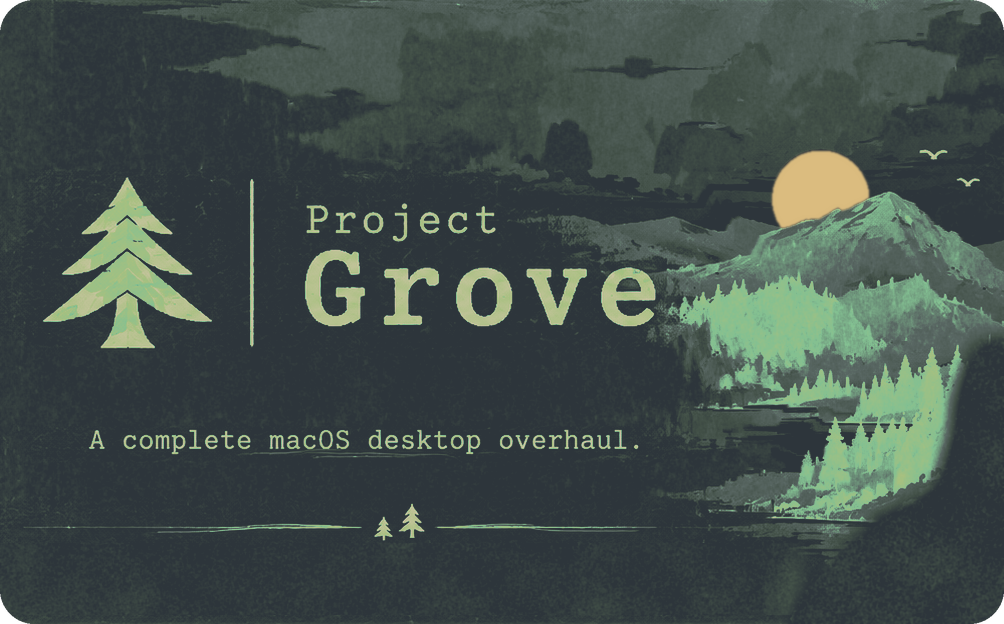
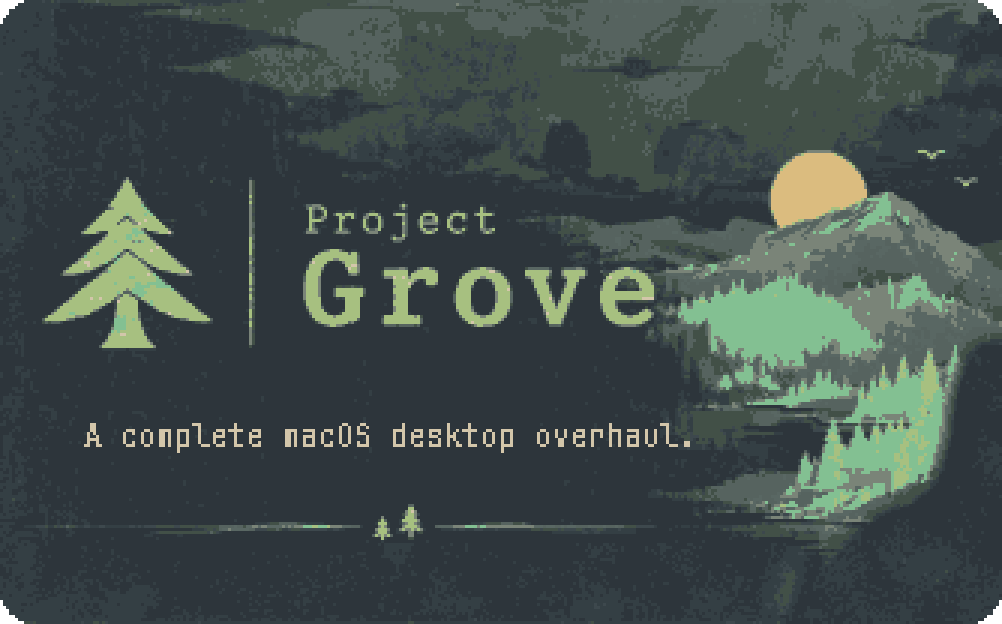
Grove image as pixel art: 3x pixels in exact palette colors, pixel tagline
Every opaque pixel is now a palette color, and a test checks it.

diff --git a/grove-dotfiles/docs/specs/2026-11-09-grove-fastfetch-design.md b/grove-dotfiles/docs/specs/2026-11-09-grove-fastfetch-design.md
@@ -21,8 +21,9 @@ The summary shown in every new terminal window keeps its look (a boxed "Grove" p
 | Tool | **fastfetch** replaces macchina | It can show images in Ghostty and color its bars; macchina can do neither. |
 | Image | The banner reframed: logo to the landscape's rock, features row removed, made taller (aspect 1.61), rounded corners, 1004 × 624 PNG | Approved by the user after the spike. |
 | Image tones | **Everforest night**, recolored from the theme: lightness picks a color on a palette ramp (paper bg0 → bg_green → fill → aqua → green → darkest ink fg), and the sun is the theme's yellow, drawn as a full disc behind the peak. The front pines and the rock (lower right) are removed into dark paper; the hills, lake and mountains behind them stay | Chosen by the user: first the swapped version, then "more green, following the theme colors". It blends into the terminal. |
+| Image style | **Pixel art**: the Everforest night image shrunk 3×, every pixel snapped to an exact palette color (no dithering), scaled back up with hard edges and stepped corners, 1002 × 624. The tagline is redrawn as pixel text in JetBrains Mono 10 | Chosen by the user (3× over a chunkier 4×). Small text can't survive shrinking, so it's redrawn. |
 | Image source | The PNG itself is committed (`config/fastfetch/grove.png`, ~1 MB) | It's derived from the banner the user made for the public README. The tool that made it stays private, like the other dev tools (see the private-files rule). |
-| Image colors | The image is derived from the banner's paint, so it is **exempt** from the palette rule (made only of palette colors, but blended between them, so its pixels aren't exact palette hexes) | The palette rule covers config colors. Every color in the fastfetch config still comes from the palette (tested). |
+| Image colors | Every opaque pixel is an exact palette color (tested); only the corners' edge pixels are partly transparent | The palette rule covers config colors. Every color in the fastfetch config still comes from the palette (tested). |
 | Size | Image 76 columns × 22 rows (the box's height); the whole summary needs ~140 columns | It matches the box; the width follows from the image's shape. |
 | Narrow windows | ≥ 140 columns: image (1 + 76 + 3 + the 58-column box = 138). 125–139: today's text art (1 + 61 + 3 + 58 = 123). < 125: box only | Never wraps or overlaps. |
 | Terminal.app | Text art (it can't show images) | Same as today. |
